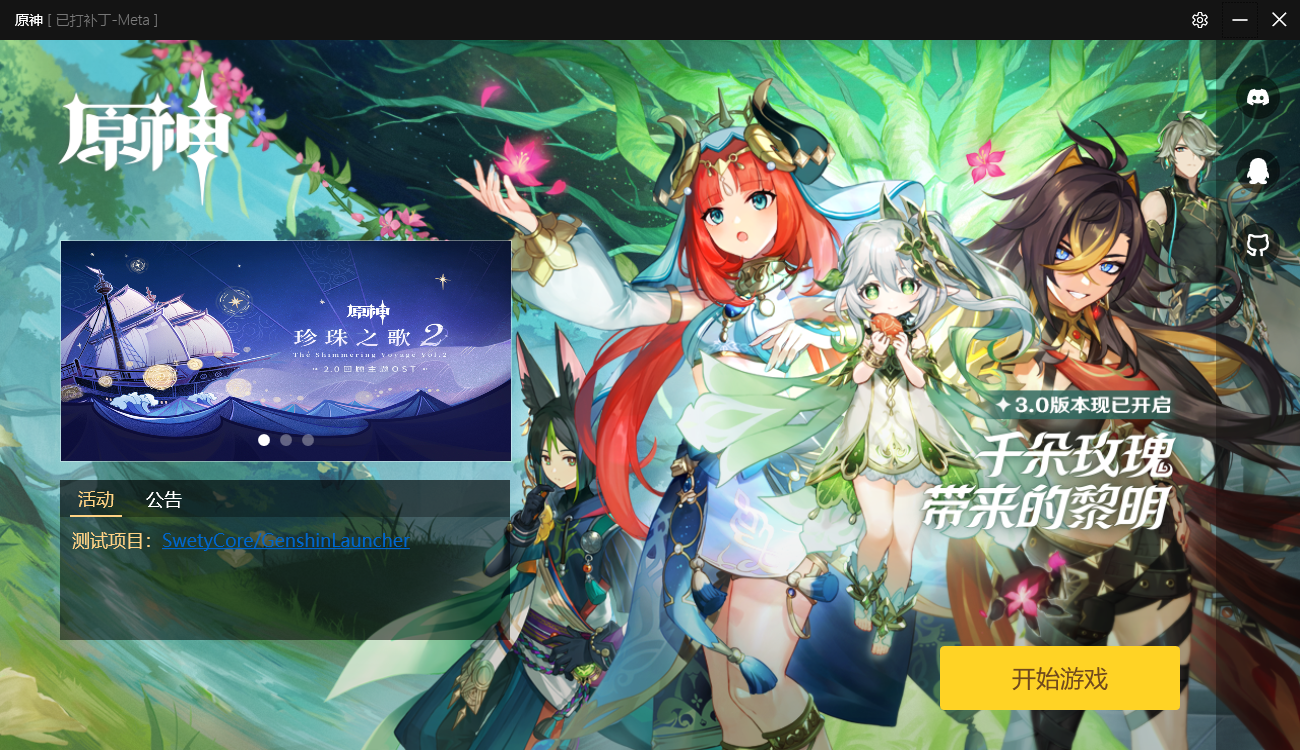
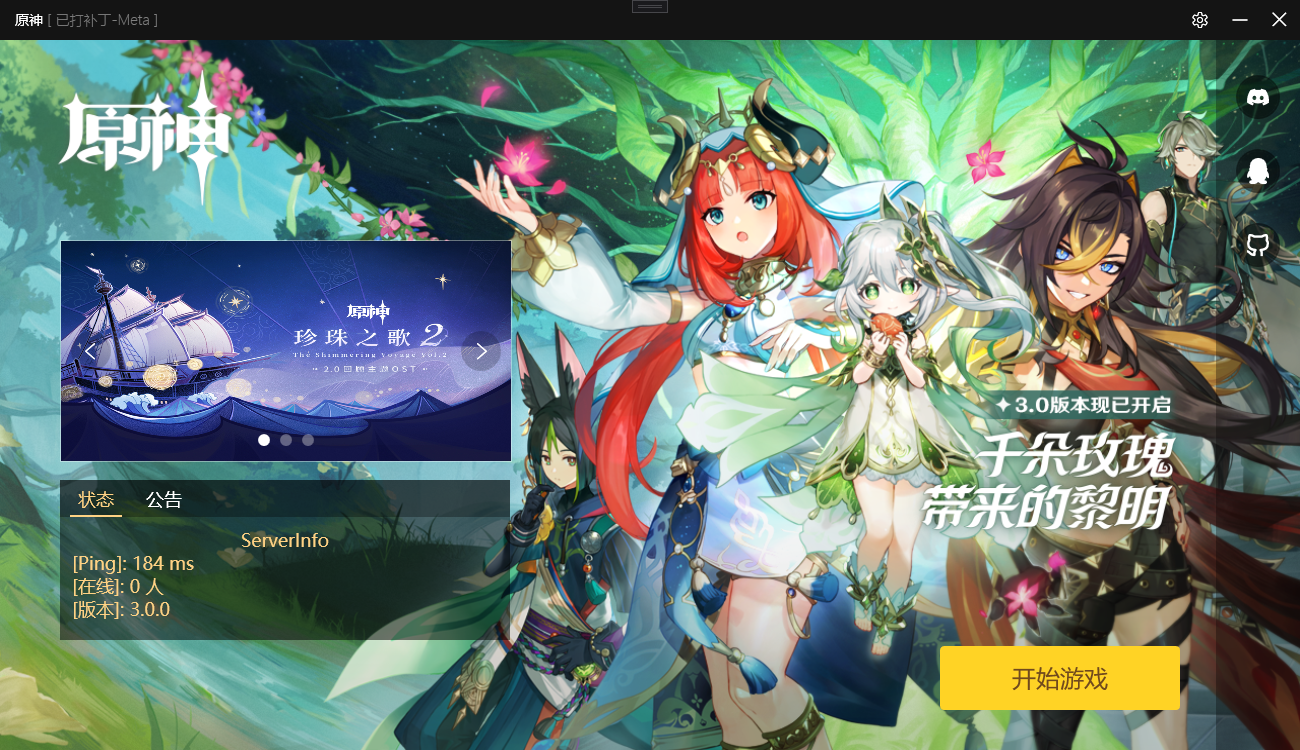
更新自述文件

diff --git a/README.md b/README.md
@@ -7,6 +7,7 @@
 ## ✨功能 (持续完善ing)
 
 ✅ 高仿官方启动器UI  
+✅ 显示补丁状态  
 ✅ 自带代理  
 ✅ 自定义部分页面资源  
 ✅ 直接修补metadata文件  
@@ -19,6 +20,8 @@
 ![](Preview/setting.png)
 
 ## 🎁使用
+> + 当启动器检测到当前补丁状态为未打补丁时会拒绝启动代理
+> + 当打补丁时如果初始文件md5和官方对不上会拒绝打补丁
 1. 前往 Release 寻找操作系统对应的压缩包
 2. 解压到任意目录
 3. 双击exe
